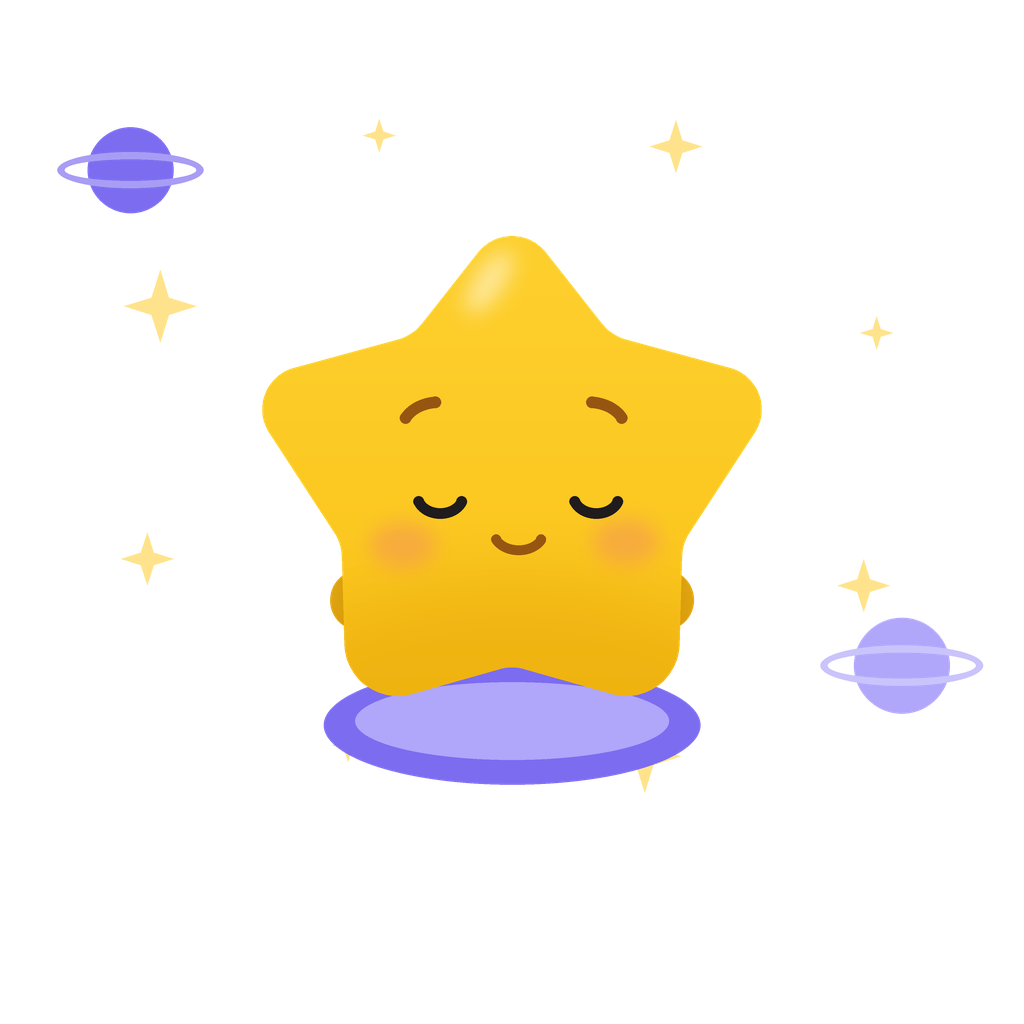
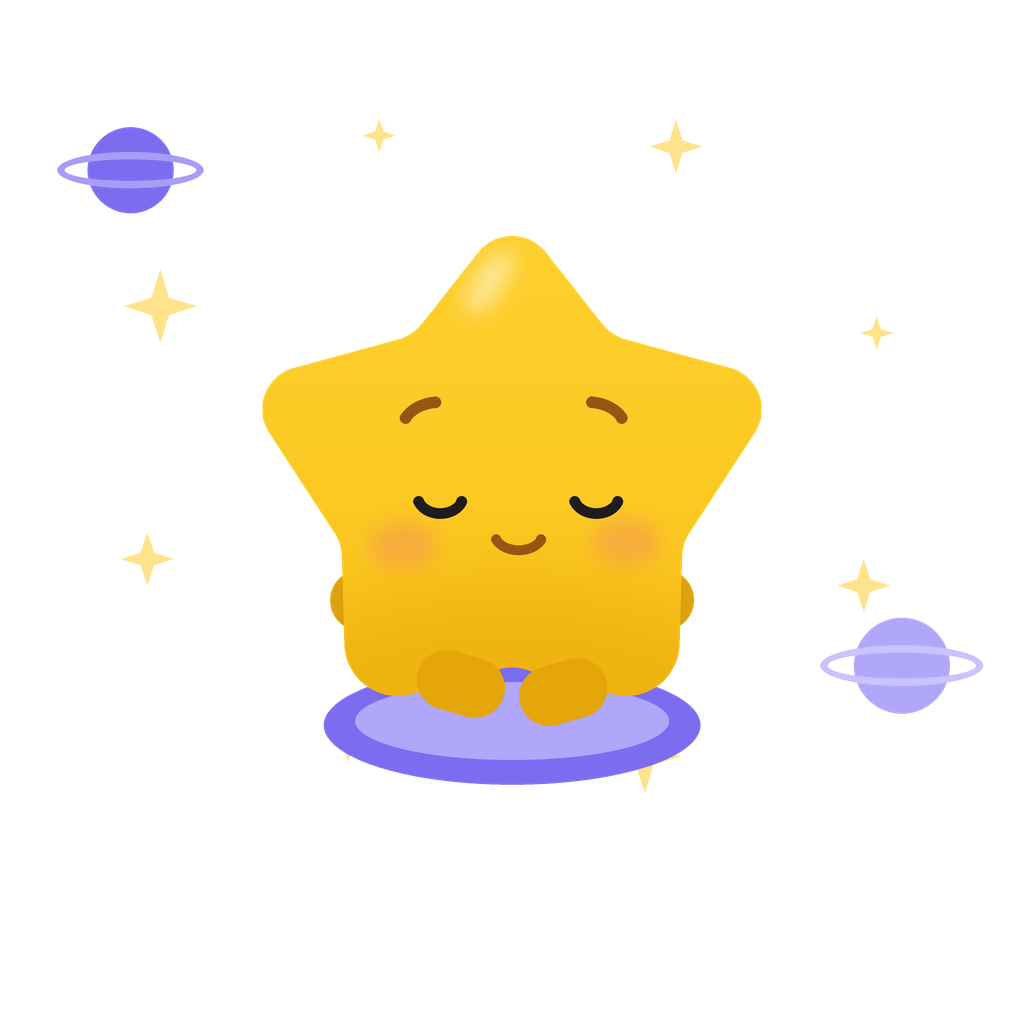
Finish the last four scenes
The lotus pose hides the legs, so meditation read as standing behind the
mat — crossed legs are now drawn over the body. The beanie's dome sat
above its cuff with a strip of ray showing between them; the dome now
reaches down past the cuff. The crisis screen gets a faint warm glow so
the frame is not bare.

All 28 scenes are done.

Claude-Session: https://claude.ai/code/session_015M4W5mwAC7ThVprora4HqH

Changed region(s): [[0.4062, 0.6562, 0.5938, 0.7188]]

diff --git a/scenes.py b/scenes.py
@@ -113,6 +113,12 @@ def planet(img):
 
 
 
+def calm_glow(img):
+    """Очень мягкий тёплый ореол — поддержка без пафоса."""
+    soft(img, (255, 222, 140), 95,
+         lambda d: d.ellipse(sbox([300, 250, 940, 890]), fill=255), blur=s(80))
+
+
 def aura(img):
     """Тёплое сияние вокруг фигуры — «умиротворение»."""
     soft(img, (255, 214, 96), 150,
@@ -222,6 +228,17 @@ def hands_notepad(img):
     hands_over(img)
 
 
+def lotus_legs(img):
+    """Скрещённые ножки поверх корпуса — иначе поза лотоса читается как
+    «стоит за ковриком»."""
+    m = Image.new("L", img.size, 0)
+    cs.rotated_capsule(m, cs.CX - 62, 828, 108, 72, -16)
+    cs.rotated_capsule(m, cs.CX + 62, 838, 108, 72, 16)
+    lay = Image.new("RGBA", img.size, HAND + (0,))
+    lay.putalpha(m)
+    img.alpha_composite(lay)
+
+
 def hands_clap(img):
     """Ладони поверх корпуса, одна чуть выше другой — движение хлопка."""
     dx, cy, w, h, tilt = cs.ARMS["clap"]
@@ -285,10 +302,10 @@ def nightcap(img):
 def beanie(img):
     """Шапочка — «стиль дня»."""
     lay, d = layer(img)
-    d.pieslice(sbox([458, 186, 782, 476]), 180, 360, fill=ACCENT + (255,))
-    d.rounded_rectangle(sbox([444, 392, 796, 462]), radius=s(34),
+    d.pieslice(sbox([474, 214, 766, 600]), 180, 360, fill=ACCENT + (255,))
+    d.rounded_rectangle(sbox([458, 398, 782, 466]), radius=s(32),
                         fill=RING + (255,))
-    d.ellipse(sbox([582, 138, 658, 214]), fill=RING + (255,))
+    d.ellipse(sbox([586, 176, 654, 244]), fill=RING + (255,))
     img.alpha_composite(lay)
 
 
@@ -490,16 +507,19 @@ SCENES: dict[str, dict] = {
                            back=[aura, hearts_around]),
     "meditation": dict(pose="lotus", face=F(eyes="sleepy", mouth="smile"),
                        title="Медитация: лотос",
-                       back=[floating_stars, planets_small, mat]),
+                       back=[floating_stars, planets_small, mat],
+                       front=[lotus_legs]),
     "meditationcomplete": dict(pose="lotus", face=F(eyes="closed", brows="none",
                                                     mouth="smile"),
-                               title="Медитация завершена", back=[aura, mat]),
+                               title="Медитация завершена", back=[aura, mat],
+                               front=[lotus_legs]),
 
     # вспомогательные
     "home-wardrobe": dict(pose="idle", face=F(eyes="wink", mouth="wide"),
                           title="Гардероб: стиль дня", front=[beanie]),
     "crisis": dict(pose="idle", face=F(eyes="sleepy", mouth="smile"),
-                   title="Кризисный экран: спокойная поддержка"),
+                   title="Кризисный экран: спокойная поддержка",
+                   back=[calm_glow]),
 }
 
 # алиасы: один файл переиспользуется на нескольких экранах
